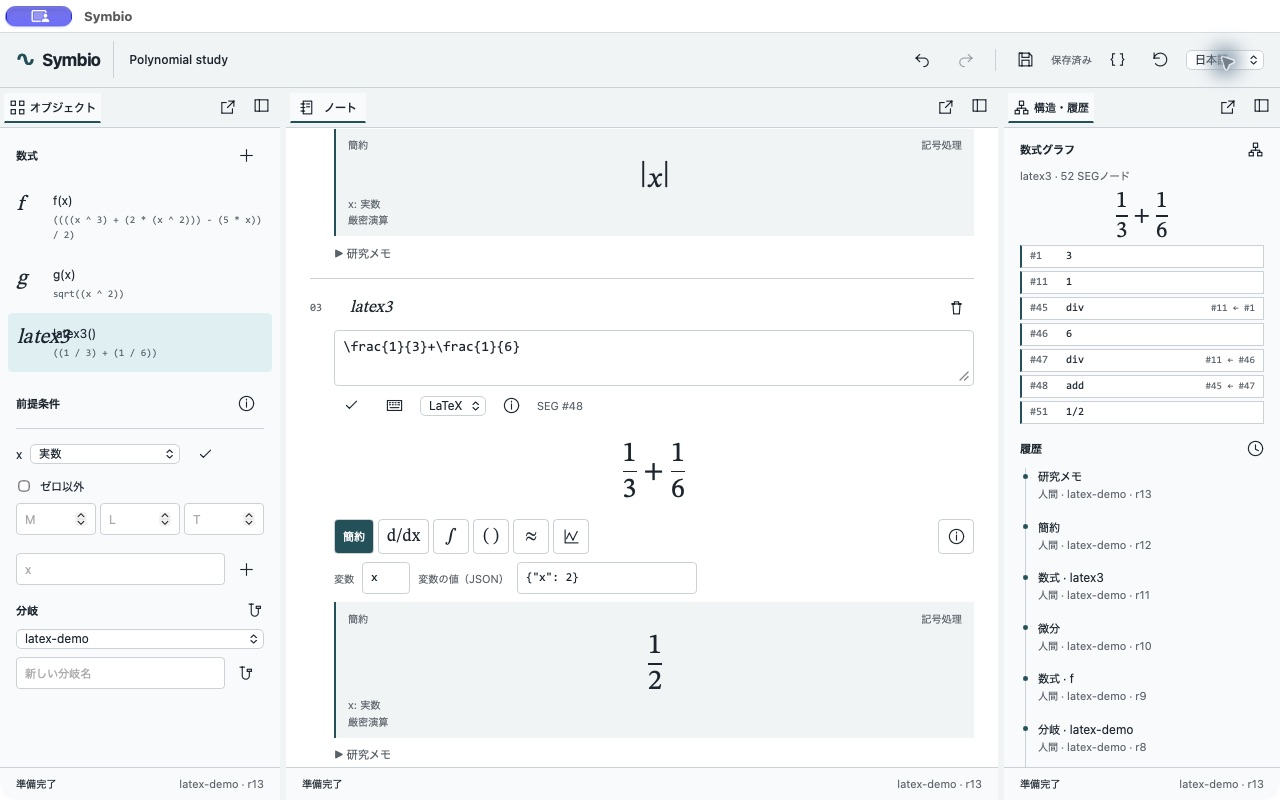
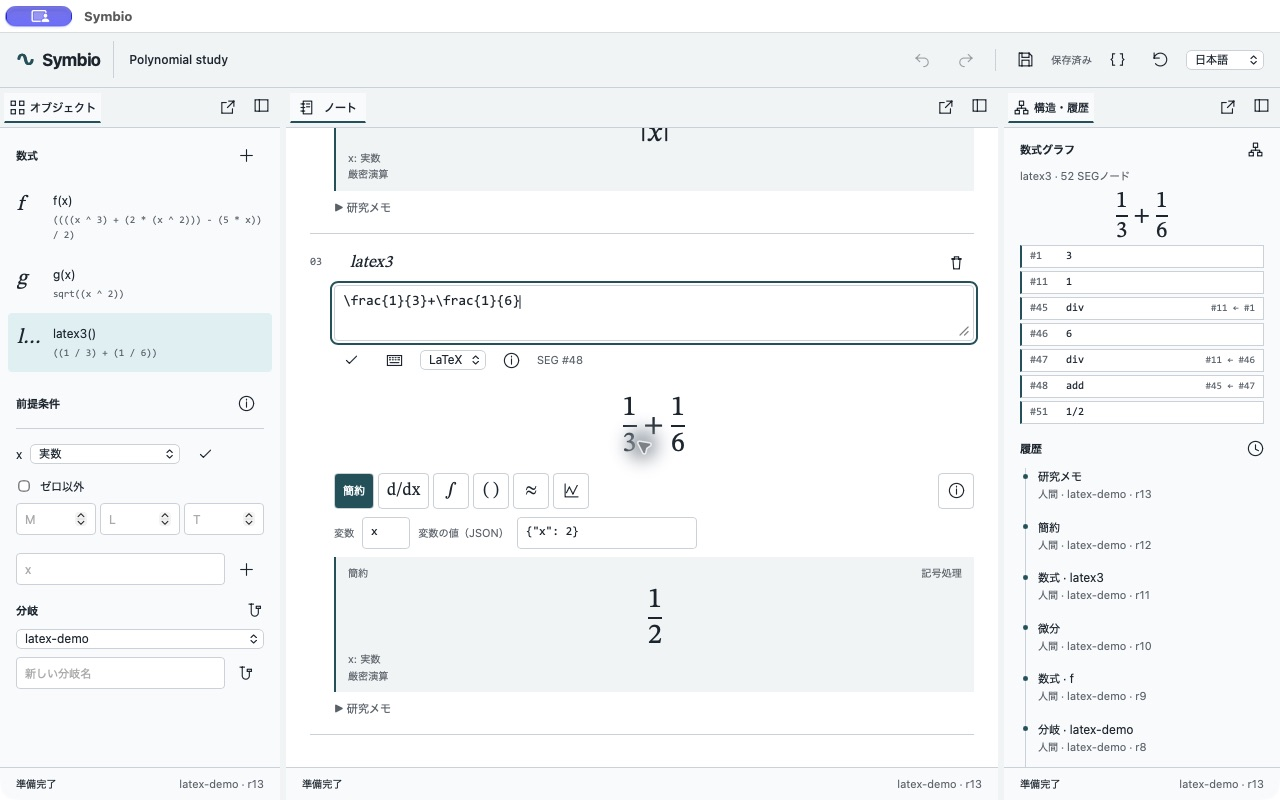
Initial commit

diff --git a/docs/validation.md b/docs/validation.md
@@ -4,7 +4,7 @@ Environment: macOS / Apple Silicon, local development build. Verification used t
 
 ## Automated
 
-- `cargo test --locked --offline -p symbio-core -p symbio-cli -p symbio-desktop`: **30 passed** (12 mathematical/storage integration tests, 18 desktop/layout/placement/plot tests).
+- `cargo test --locked --offline -p symbio-core -p symbio-cli -p symbio-desktop`: **35 passed** (17 mathematical/LaTeX/storage integration tests, 18 desktop/layout/placement/plot tests).
 - `cargo clippy --locked --offline -p symbio-core -p symbio-cli -p symbio-desktop --all-targets -- -D warnings`: passed.
 - `cargo fmt --all --check`: passed.
 - `node --check apps/desktop/ui/app.js` and `dock.js`: passed.
@@ -36,7 +36,7 @@ Screenshots: [Japanese workspace](screenshots/workspace-ja.png), [English numeri
 
 No Windows/Linux execution, distribution signing/notarization, GPU device-loss test, physical multi-monitor unplug test, full cross-platform accessibility certification, broad CAS conformance suite or long-duration performance benchmark was performed. Proof/LLM/FLINT/Julia engines are not present, so no integration success is claimed for them. See the roadmap for explicit pending and future work.
 
-## Math keyboard addition
+## Initial math keyboard addition
 
 - `node --test scripts/math-keyboard.test.mjs`: **7 passed**. Covers selected numerator wrapping, denominator selection/replacement, roots/powers, original LaTeX snippets and placeholder focus, literal replacement characters, Unicode deletion, bounded undo/redo and redo-branch truncation.
 - JavaScript syntax checks and macOS `.app` rebuild passed; mathematical Rust code is unchanged.
@@ -54,6 +54,7 @@ No Windows/Linux execution, distribution signing/notarization, GPU device-loss t
 - CLI smoke covers `math.preview_latex` → `math.define_latex` → differentiate → explicit save → fresh-process reload.
 - Native UI: source format → LaTeX; enter `\frac{x^{3}+2x^{2}-5x}{2}`; live fraction/power preview; Differentiate → `3/2*x^2 + 2*x - 5/2`; inspector displays the same SEG. Incomplete `\frac{x}{` clears the preview and hides previous output without changing the document revision.
 - Native UI: unsupported `\int` note shows an explicit error. Replace with `\frac{1}{3}+\frac{1}{6}` → preview → + → separate LaTeX cell → Simplify → exact `1/2` → Save. The note and computational cell are both retained.
+- Native restart recovered LaTeX source formats, original sources, notes, derivative output and exact `1/2` output from disk.
 - [Native LaTeX calculation](screenshots/latex-seg-ja.png). UI text is translated in EN/JA/简体中文; the initial end-to-end interaction ran in English and the screenshot uses Japanese.
 
 Supported mathematical LaTeX is a documented subset, not a full TeX renderer or CAS importer. Preview checks syntax, not domain validity. Unimplemented integral/sum/matrix/equation notation remains an explicit error.

diff --git a/README.md b/README.md
@@ -53,6 +53,8 @@ Open the keyboard icon below an expression to insert selection-aware templates. 
 
 ### LaTeX入力の対応範囲
 
+入力形式の切替は文法の選択です。既存の文字列を自動翻訳しないため、例えば `sin(x)` はLaTeXでは `\sin(x)` と入力してください。
+
 例：`\frac{x^{3}+2x^{2}-5x}{2}` → 数式プレビュー → 微分 → `3/2*x^2 + 2*x - 5/2`。
 
 - 四則演算、分数 `\frac{a}{b}`、根号 `\sqrt{x}`、累乗 `x^{2}`、暗黙の乗算 `2x`、丸／角／波括弧。
